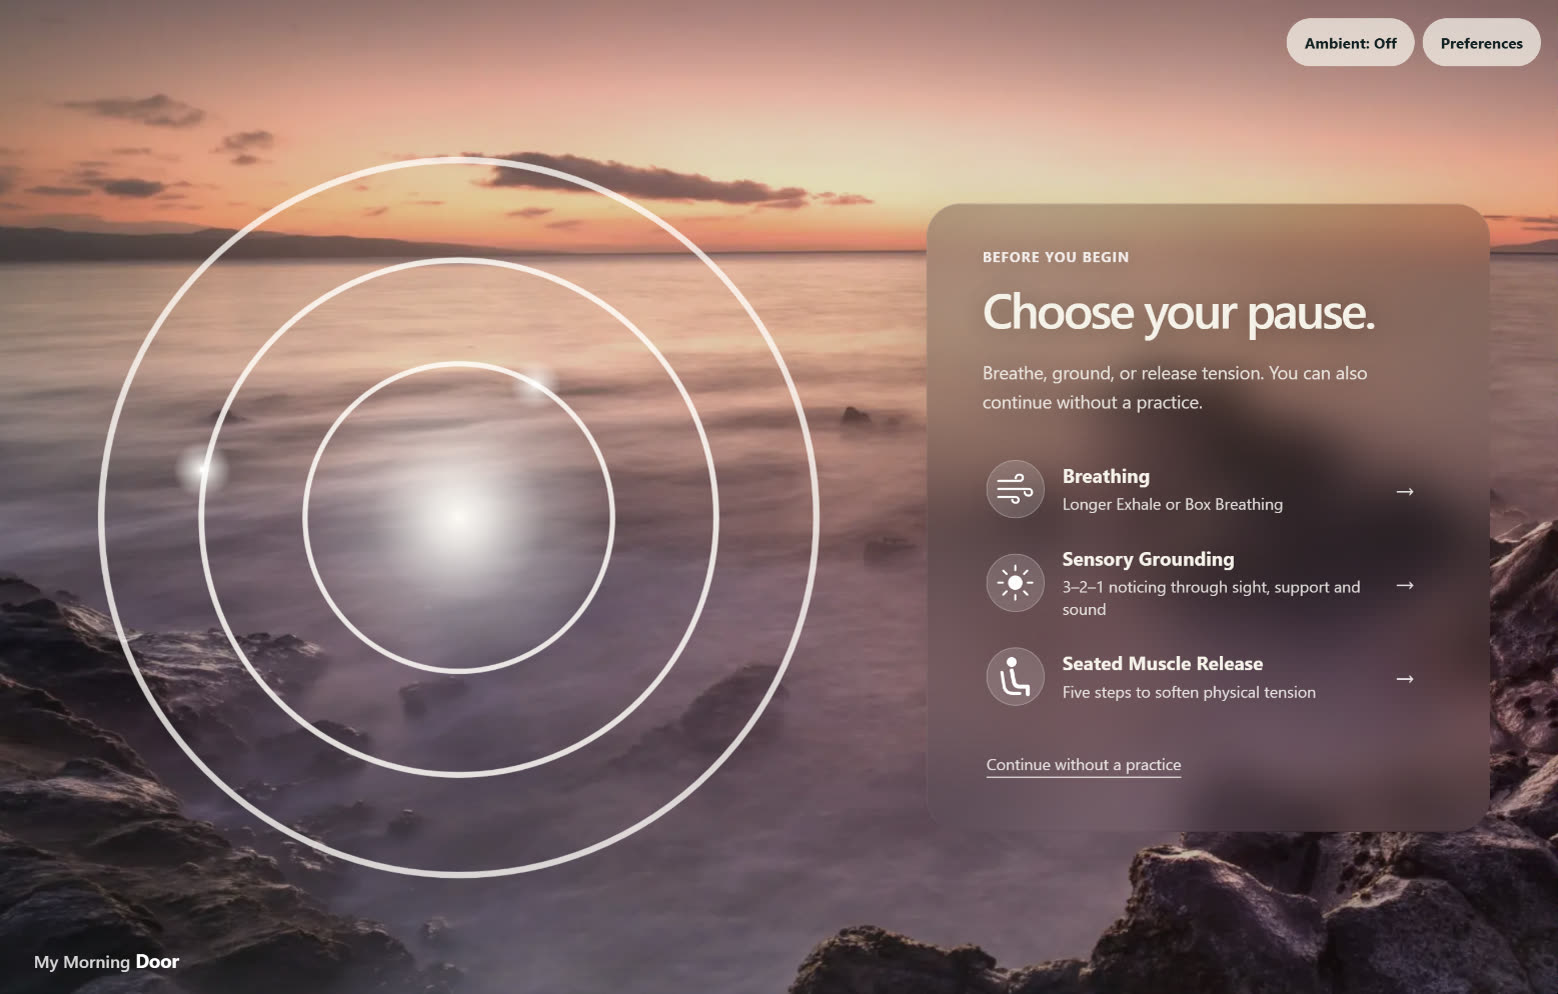
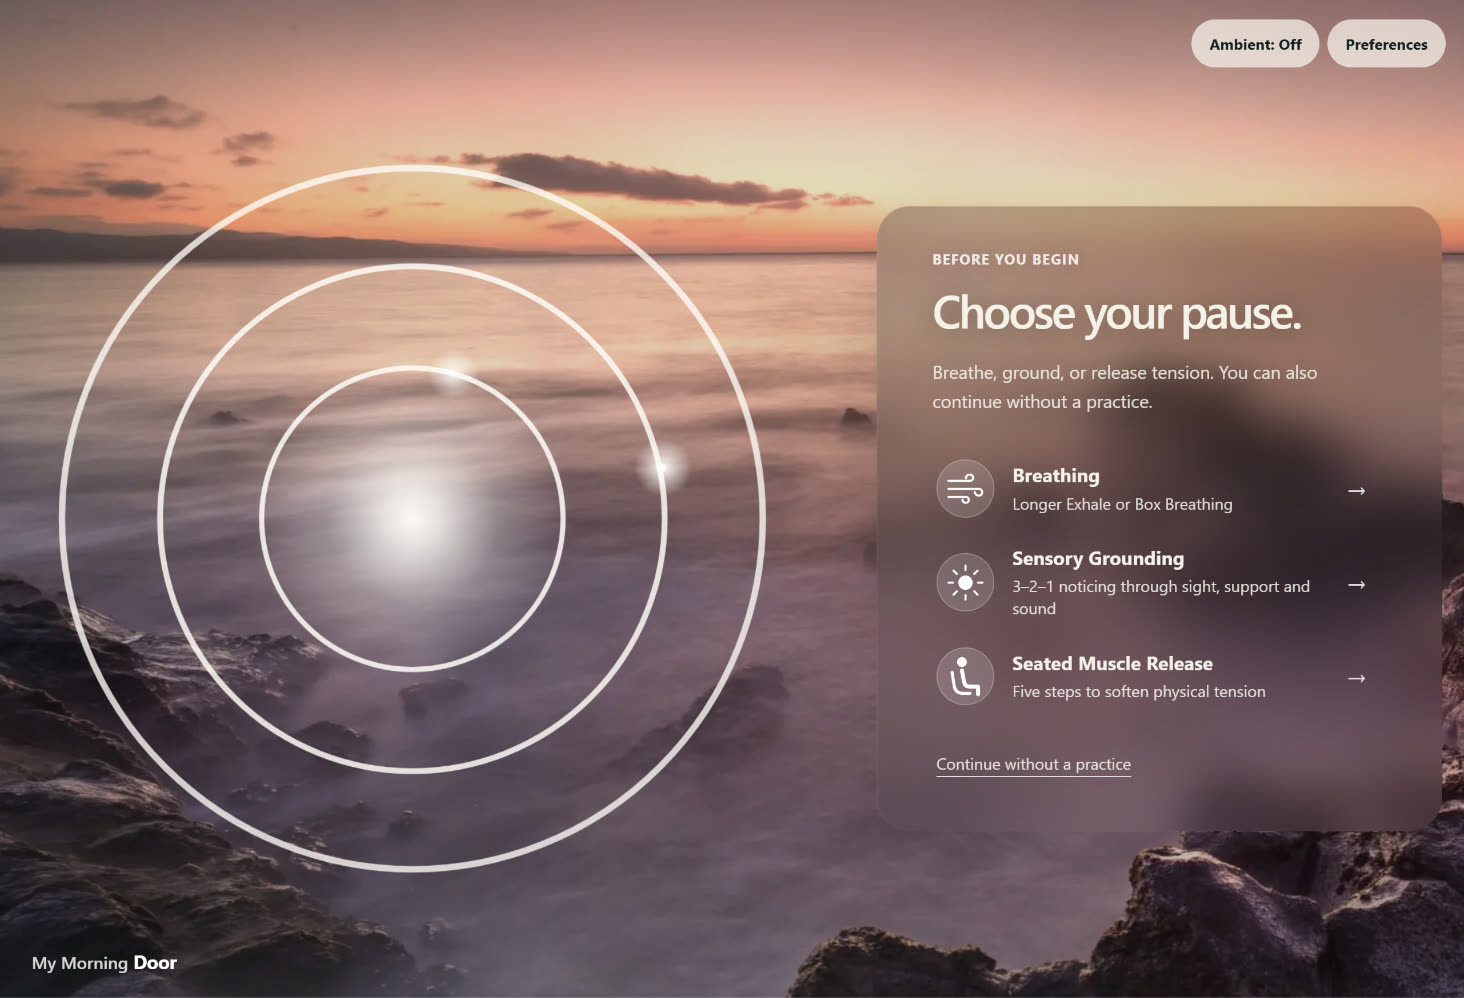
Let the case study card take the arrival image's own height
Drop the fixed aspect on the My Morning Door card so it sizes to the
arrival image itself. The full shot now shows edge to edge with no
letterboxing regardless of the capture ratio, and the current taller
cut keeps the View case study link within the image. Arrival updated
to the new 1464x998 capture.

diff --git a/index.html b/index.html
@@ -829,10 +829,11 @@ html.reading-focus { font-size: 112%; }
 }
     /* phones sit straight on the page: no panel, border or radius competing with them */
     .cs-media--bare { background: none; border: 0; border-radius: 0; box-shadow: none; overflow: visible; }
-    /* A 3:2 mat: the full arrival (logo + Preferences) shown via contain, matching the other cards'
-       ratio so the card height tracks the text column and the View case study link does not dangle */
-    .cs-media--wide { aspect-ratio: 3 / 2; }
-    .cs-media.cs-media--wide img { object-fit: contain; object-position: center; }
+    /* This card takes the arrival image's own height (no fixed ratio), so the full shot shows edge to
+       edge with no letterboxing at any capture ratio; the current cut is taller than the text column,
+       so the View case study link stays within the image rather than dangling below it */
+    .cs-media--wide { aspect-ratio: auto; }
+    .cs-media.cs-media--wide img { height: auto; }
 .cs-media img {
   width: 100%;
   height: 100%;

diff --git a/case-study-my-morning-door.html b/case-study-my-morning-door.html
@@ -1060,7 +1060,7 @@ body::after {
   <div class="wide screen-block">
     <div class="screen-row">
       <figure class="figure is-natural">
-        <img src="mmd-arrival.jpg" alt="My Morning Door arrival screen: a frosted-glass panel headed 'Choose your pause' over a rocky shoreline at sunset, offering Breathing, Sensory Grounding and Seated Muscle Release, with a 'Continue without a practice' link" width="1558" height="994" loading="lazy">
+        <img src="mmd-arrival.jpg" alt="My Morning Door arrival screen: a frosted-glass panel headed 'Choose your pause' over a rocky shoreline at sunset, offering Breathing, Sensory Grounding and Seated Muscle Release, with a 'Continue without a practice' link" width="1464" height="998" loading="lazy">
         <figcaption>Fig. 03: The arrival ritual</figcaption>
       </figure>
       <div class="caption">
